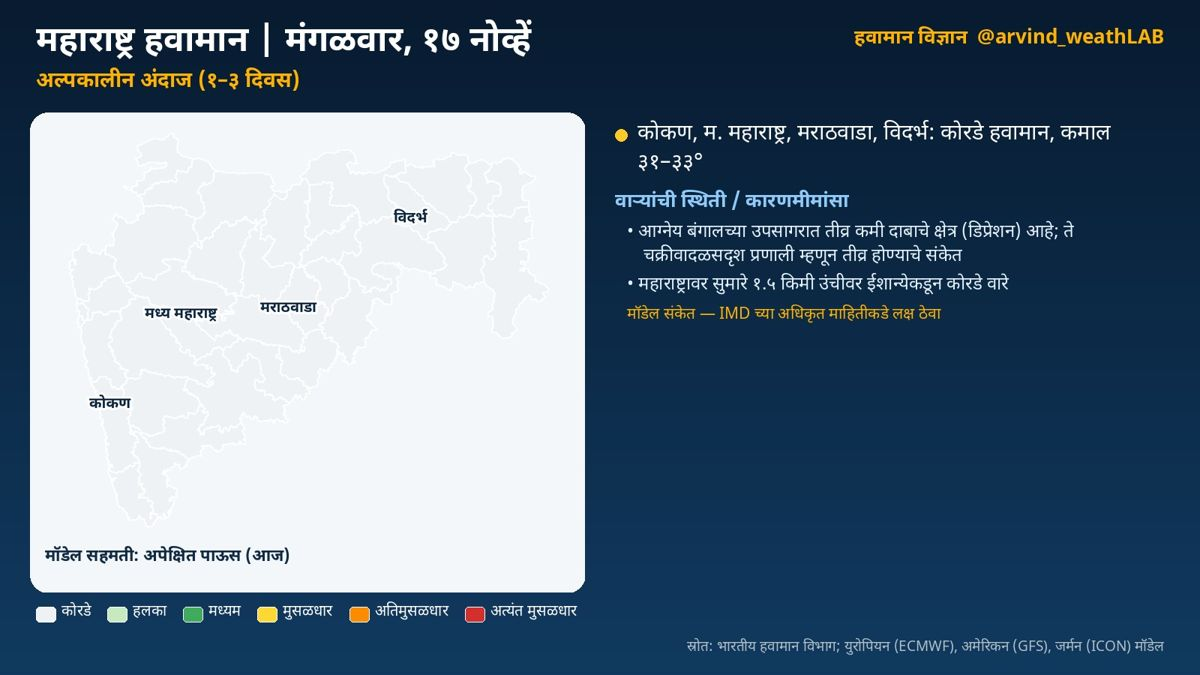
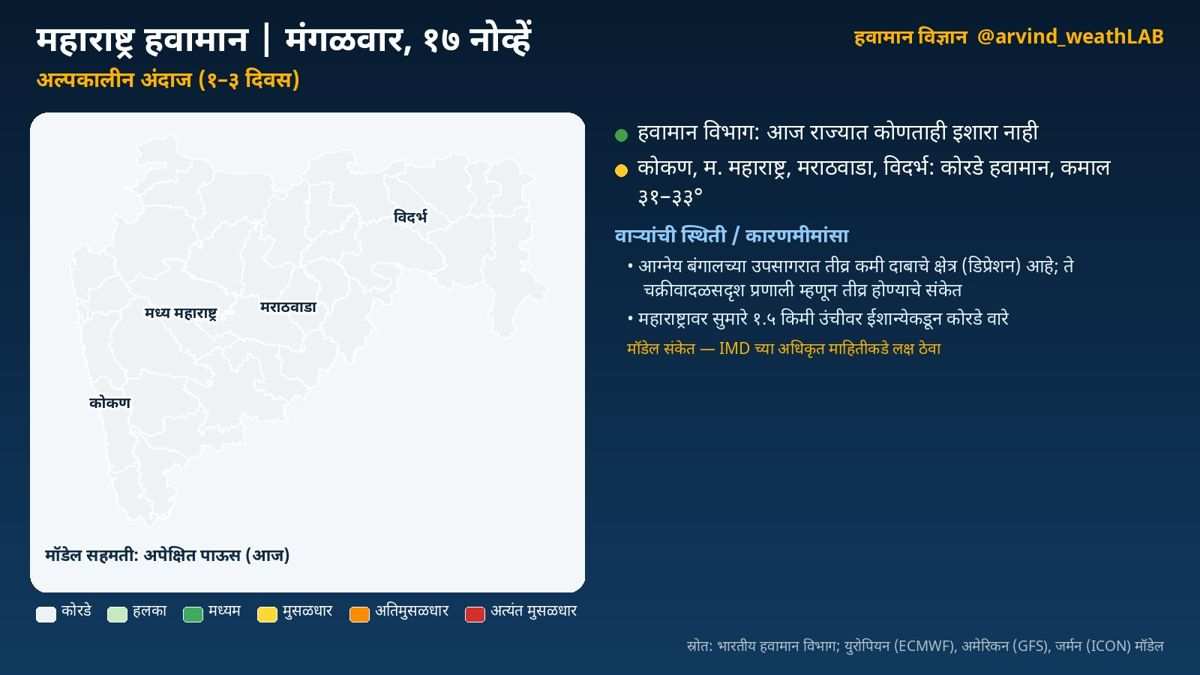
Alert 2026-11-17 (hawaman-vidnyan)

Changed region(s): [[0.4933, 0.1556, 0.925, 0.5289]]

diff --git a/docs/alerts/2026-11-17-hawaman/index.html b/docs/alerts/2026-11-17-hawaman/index.html
@@ -12,7 +12,7 @@
     })();
   </script>
   <title data-mr="पुढील आठवडा (२० ते २६ नोव्हें) | महाराष्ट्र | हवामान इशारा">पुढील आठवडा (२० ते २६ नोव्हें) | महाराष्ट्र | Weather alert</title>
-  <meta name="description" content="Information analysis: पुढील आठवडा (२० ते २६ नोव्हें) | महाराष्ट्र (17 November 2026)">
+  <meta name="description" content="Green alert: पुढील आठवडा (२० ते २६ नोव्हें) | महाराष्ट्र (17 November 2026)">
   <link rel="preconnect" href="https://fonts.googleapis.com">
   <link rel="preconnect" href="https://fonts.gstatic.com" crossorigin>
   <link href="https://fonts.googleapis.com/css2?family=Mukta:wght@400;500;600;700&family=Noto+Serif+Devanagari:wght@600;700&display=swap" rel="stylesheet">
@@ -45,8 +45,8 @@
   <main class="wrap main">
 <article class="article">
   <p class="muted"><a href="../../alerts/index.html"><span class="l-en">← All alerts</span><span class="l-mr" lang="mr">← सर्व इशारे</span></a></p>
-  <div class="alert-banner level-info">
-    <span class="badge badge-info"><span class="l-en">Information · analysis</span><span class="l-mr" lang="mr">माहितीपर विश्लेषण</span></span>
+  <div class="alert-banner level-green">
+    <span class="badge badge-green"><span class="l-en">Green alert · No warning</span><span class="l-mr" lang="mr">हिरवा इशारा · कोणताही इशारा नाही</span></span>
     <h1>पुढील आठवडा (२० ते २६ नोव्हें) | महाराष्ट्र</h1>
     <dl class="alert-facts">
       <div><dt><span class="l-en">Date</span><span class="l-mr" lang="mr">दिनांक</span></dt><dd><time datetime="2026-11-17"><span class="l-en">Tuesday, 17 November 2026</span><span class="l-mr" lang="mr">मंगळवार, १७ नोव्हेंबर २०२६</span></time></dd></div>
@@ -123,7 +123,7 @@
 ⚠ हे मॉडेल-आधारित विश्लेषण आहे. अधिकृत इशाऱ्यांसाठी भारतीय हवामान विभाग (IMD) व स्थानिक प्रशासनाच्या सूचना पाहा.</p>
 <h2>सविस्तर हवामान विश्लेषण</h2>
 <h3>अल्पकालीन विश्लेषण (१ ते ३ दिवस)</h3>
-<p>नमस्कार! आज मंगळवार, १७ नोव्हेंबर. पाहूया महाराष्ट्राचे हवामान विश्लेषण. कोकण: कोरडे हवामान. कमाल तापमान सुमारे ३३ आणि किमान १८ अंश सेल्सिअस. मध्य महाराष्ट्र: कोरडे हवामान. कमाल तापमान सुमारे ३३ आणि किमान १६ अंश सेल्सिअस. मराठवाडा: कोरडे हवामान. कमाल तापमान सुमारे ३१ आणि किमान १७ अंश सेल्सिअस. विदर्भ: कोरडे हवामान. कमाल तापमान सुमारे ३२ आणि किमान १७ अंश सेल्सिअस. आता पाहूया हवामानामागचे कारण, म्हणजेच वाऱ्यांची स्थिती. आग्नेय बंगालच्या उपसागरात तीव्र कमी दाबाचे क्षेत्र (डिप्रेशन) आहे; ते चक्रीवादळसदृश प्रणाली म्हणून तीव्र होण्याचे संकेत; प्रणाली वायव्येकडे (पश्चिम-मध्य बंगालचा उपसागर) सरकण्याची शक्यता (मॉडेल संकेत; IMD च्या अधिकृत माहितीकडे लक्ष ठेवा). पूर्व-मध्य अरबी समुद्रात कमी दाबाचे क्षेत्र आहे. महाराष्ट्रावर सुमारे १.५ किमी उंचीवर ईशान्येकडून कोरडे वारे; हवेच्या मधल्या थरात आर्द्रता फक्त १०% असल्याने ढग फारसे तयार होत नाहीत.</p>
+<p>नमस्कार! आज मंगळवार, १७ नोव्हेंबर. पाहूया महाराष्ट्राचे हवामान विश्लेषण. हवामान विभागाने आज राज्यात कोणताही इशारा दिलेला नाही. कोकण: कोरडे हवामान. कमाल तापमान सुमारे ३३ आणि किमान १८ अंश सेल्सिअस. मध्य महाराष्ट्र: कोरडे हवामान. कमाल तापमान सुमारे ३३ आणि किमान १६ अंश सेल्सिअस. मराठवाडा: कोरडे हवामान. कमाल तापमान सुमारे ३१ आणि किमान १७ अंश सेल्सिअस. विदर्भ: कोरडे हवामान. कमाल तापमान सुमारे ३२ आणि किमान १७ अंश सेल्सिअस. काल राज्यातील सर्वाधिक तापमान रत्नागिरी येथे ३४.८ अंश (सरासरीपेक्षा १.०° जास्त) नोंदले गेले. आता पाहूया हवामानामागचे कारण, म्हणजेच वाऱ्यांची स्थिती. आग्नेय बंगालच्या उपसागरात तीव्र कमी दाबाचे क्षेत्र (डिप्रेशन) आहे; ते चक्रीवादळसदृश प्रणाली म्हणून तीव्र होण्याचे संकेत; प्रणाली वायव्येकडे (पश्चिम-मध्य बंगालचा उपसागर) सरकण्याची शक्यता (मॉडेल संकेत; IMD च्या अधिकृत माहितीकडे लक्ष ठेवा). पूर्व-मध्य अरबी समुद्रात कमी दाबाचे क्षेत्र आहे. महाराष्ट्रावर सुमारे १.५ किमी उंचीवर ईशान्येकडून कोरडे वारे; हवेच्या मधल्या थरात आर्द्रता फक्त १०% असल्याने ढग फारसे तयार होत नाहीत.</p>
 <h3>मध्यम कालावधी विश्लेषण (४ ते १० दिवस)</h3>
 <p>आता पुढील आठवड्याचा, म्हणजे २० ते २६ नोव्हें या काळाचे विश्लेषण. युरोपियन हवामान केंद्राच्या ५१ वेगवेगळ्या संभाव्य मॉडेल-परिणामांवर आधारित. कोकण: पावसाची शक्यता कमी. मध्य महाराष्ट्र: पावसाची शक्यता मध्यम (२२ नोव्हें जास्त). मराठवाडा: पावसाची शक्यता अधिक (२२ नोव्हें जास्त). विदर्भ: पावसाची शक्यता अधिक (२२ नोव्हें जास्त).  किमान तापमान १° ने वाढेल. या काळातील वाऱ्यांची स्थिती: २० नोव्हें रोजी पश्चिम-मध्य बंगालच्या उपसागरात असलेली तीव्र कमी दाबाचे क्षेत्र (डिप्रेशन) पश्चिमेकडे (महाराष्ट्र) सरकण्याची शक्यता (मॉडेल संकेत; IMD च्या अधिकृत माहितीकडे लक्ष ठेवा). या प्रणालीमुळे राज्यात ढगाळ हवामान व पावसाची शक्यता वाढू शकते. ईशान्य अरबी समुद्रात २० नोव्हें दरम्यान कमी दाबाचे क्षेत्र तयार होण्याचे संकेत; प्रणाली पश्चिमेकडे (वायव्य अरबी समुद्र) सरकण्याची शक्यता. मध्य भारतावर २१ नोव्हें दरम्यान कमी दाबाचे क्षेत्र तयार होण्याचे संकेत; प्रणाली आग्नेयेकडे (ईशान्य बंगालचा उपसागर) सरकण्याची शक्यता. महाराष्ट्रावर सुमारे १.५ किमी उंचीवर पूर्वेकडून कोरडे वारे; हवेच्या मधल्या थरात आर्द्रता फक्त २१% असल्याने ढग फारसे तयार होत नाहीत.</p>
 <h3>विस्तारित विश्लेषण (२ ते ४ आठवडे)</h3>

diff --git a/docs/index.html b/docs/index.html
@@ -73,9 +73,9 @@
   </div>
   <p class="imd-note"><span class="l-en">Disclaimer: For weather alerts and warnings, I follow the India Meteorological Department (IMD). The alert colour and the warnings on this page come from the official IMD district warnings. The other text is my own analysis and gives information only. For official forecasts and warnings, follow</span><span class="l-mr" lang="mr">अस्वीकरण: हवामान इशाऱ्यांसाठी मी भारतीय हवामान विभागाचे (IMD) अनुसरण करतो. येथे दाखवलेला इशाऱ्याचा रंग व इशारे हे IMD च्या अधिकृत जिल्हानिहाय इशाऱ्यांवरून घेतले आहेत; उर्वरित माहिती हे केवळ माहितीसाठी केलेले माझे वैयक्तिक विश्लेषण आहे. अधिकृत अंदाज व इशाऱ्यांसाठी कृपया</span>
     <a href="https://mausam.imd.gov.in" rel="noopener" target="_blank"><span class="l-en">IMD (mausam.imd.gov.in)</span><span class="l-mr" lang="mr">भारतीय हवामान विभागाचे (mausam.imd.gov.in)</span></a><span class="l-en">.</span><span class="l-mr" lang="mr"> अनुसरण करा.</span></p>
-    <article class="alert-card level-info">
+    <article class="alert-card level-green">
   <div class="alert-card-top">
-    <span class="badge badge-info"><span class="l-en">Information · analysis</span><span class="l-mr" lang="mr">माहितीपर विश्लेषण</span></span>
+    <span class="badge badge-green"><span class="l-en">Green alert · No warning</span><span class="l-mr" lang="mr">हिरवा इशारा · कोणताही इशारा नाही</span></span>
     <time datetime="2026-11-17" class="muted"><span class="l-en">Tuesday, 17 November 2026</span><span class="l-mr" lang="mr">मंगळवार, १७ नोव्हेंबर २०२६</span></time>
   </div>
   <h3><a href="./alerts/2026-11-17-hawaman/index.html">पुढील आठवडा (२० ते २६ नोव्हें) | महाराष्ट्र</a></h3>

diff --git a/docs/alerts/index.html b/docs/alerts/index.html
@@ -72,9 +72,9 @@
 </section>
 
 <div class="stack">
-<article class="alert-card level-info">
+<article class="alert-card level-green">
   <div class="alert-card-top">
-    <span class="badge badge-info"><span class="l-en">Information · analysis</span><span class="l-mr" lang="mr">माहितीपर विश्लेषण</span></span>
+    <span class="badge badge-green"><span class="l-en">Green alert · No warning</span><span class="l-mr" lang="mr">हिरवा इशारा · कोणताही इशारा नाही</span></span>
     <time datetime="2026-11-17" class="muted"><span class="l-en">Tuesday, 17 November 2026</span><span class="l-mr" lang="mr">मंगळवार, १७ नोव्हेंबर २०२६</span></time>
   </div>
   <h3><a href="../alerts/2026-11-17-hawaman/index.html">पुढील आठवडा (२० ते २६ नोव्हें) | महाराष्ट्र</a></h3>

diff --git a/content/alerts/2026-11-17-hawaman.md b/content/alerts/2026-11-17-hawaman.md
@@ -1,7 +1,7 @@
 ---
 title: "पुढील आठवडा (२० ते २६ नोव्हें) | महाराष्ट्र"
 date: 2026-11-17
-level: info
+level: green
 lang: mr
 valid: {"en": "17 November 2026, Medium-range analysis (4 to 10 days)", "mr": "१७ नोव्हेंबर २०२६, मध्यम कालावधी विश्लेषण (४ ते १० दिवस)"}
 regions: [{"en": "Konkan", "mr": "कोकण"}, {"en": "Madhya Maharashtra", "mr": "मध्य महाराष्ट्र"}, {"en": "Marathwada", "mr": "मराठवाडा"}, {"en": "Vidarbha", "mr": "विदर्भ"}]
@@ -42,7 +42,7 @@ source: hawaman-vidnyan
 
 
 ### अल्पकालीन विश्लेषण (१ ते ३ दिवस)
-नमस्कार! आज मंगळवार, १७ नोव्हेंबर. पाहूया महाराष्ट्राचे हवामान विश्लेषण. कोकण: कोरडे हवामान. कमाल तापमान सुमारे ३३ आणि किमान १८ अंश सेल्सिअस. मध्य महाराष्ट्र: कोरडे हवामान. कमाल तापमान सुमारे ३३ आणि किमान १६ अंश सेल्सिअस. मराठवाडा: कोरडे हवामान. कमाल तापमान सुमारे ३१ आणि किमान १७ अंश सेल्सिअस. विदर्भ: कोरडे हवामान. कमाल तापमान सुमारे ३२ आणि किमान १७ अंश सेल्सिअस. आता पाहूया हवामानामागचे कारण, म्हणजेच वाऱ्यांची स्थिती. आग्नेय बंगालच्या उपसागरात तीव्र कमी दाबाचे क्षेत्र (डिप्रेशन) आहे; ते चक्रीवादळसदृश प्रणाली म्हणून तीव्र होण्याचे संकेत; प्रणाली वायव्येकडे (पश्चिम-मध्य बंगालचा उपसागर) सरकण्याची शक्यता (मॉडेल संकेत; IMD च्या अधिकृत माहितीकडे लक्ष ठेवा). पूर्व-मध्य अरबी समुद्रात कमी दाबाचे क्षेत्र आहे. महाराष्ट्रावर सुमारे १.५ किमी उंचीवर ईशान्येकडून कोरडे वारे; हवेच्या मधल्या थरात आर्द्रता फक्त १०% असल्याने ढग फारसे तयार होत नाहीत.
+नमस्कार! आज मंगळवार, १७ नोव्हेंबर. पाहूया महाराष्ट्राचे हवामान विश्लेषण. हवामान विभागाने आज राज्यात कोणताही इशारा दिलेला नाही. कोकण: कोरडे हवामान. कमाल तापमान सुमारे ३३ आणि किमान १८ अंश सेल्सिअस. मध्य महाराष्ट्र: कोरडे हवामान. कमाल तापमान सुमारे ३३ आणि किमान १६ अंश सेल्सिअस. मराठवाडा: कोरडे हवामान. कमाल तापमान सुमारे ३१ आणि किमान १७ अंश सेल्सिअस. विदर्भ: कोरडे हवामान. कमाल तापमान सुमारे ३२ आणि किमान १७ अंश सेल्सिअस. काल राज्यातील सर्वाधिक तापमान रत्नागिरी येथे ३४.८ अंश (सरासरीपेक्षा १.०° जास्त) नोंदले गेले. आता पाहूया हवामानामागचे कारण, म्हणजेच वाऱ्यांची स्थिती. आग्नेय बंगालच्या उपसागरात तीव्र कमी दाबाचे क्षेत्र (डिप्रेशन) आहे; ते चक्रीवादळसदृश प्रणाली म्हणून तीव्र होण्याचे संकेत; प्रणाली वायव्येकडे (पश्चिम-मध्य बंगालचा उपसागर) सरकण्याची शक्यता (मॉडेल संकेत; IMD च्या अधिकृत माहितीकडे लक्ष ठेवा). पूर्व-मध्य अरबी समुद्रात कमी दाबाचे क्षेत्र आहे. महाराष्ट्रावर सुमारे १.५ किमी उंचीवर ईशान्येकडून कोरडे वारे; हवेच्या मधल्या थरात आर्द्रता फक्त १०% असल्याने ढग फारसे तयार होत नाहीत.
 
 ### मध्यम कालावधी विश्लेषण (४ ते १० दिवस)
 आता पुढील आठवड्याचा, म्हणजे २० ते २६ नोव्हें या काळाचे विश्लेषण. युरोपियन हवामान केंद्राच्या ५१ वेगवेगळ्या संभाव्य मॉडेल-परिणामांवर आधारित. कोकण: पावसाची शक्यता कमी. मध्य महाराष्ट्र: पावसाची शक्यता मध्यम (२२ नोव्हें जास्त). मराठवाडा: पावसाची शक्यता अधिक (२२ नोव्हें जास्त). विदर्भ: पावसाची शक्यता अधिक (२२ नोव्हें जास्त).  किमान तापमान १° ने वाढेल. या काळातील वाऱ्यांची स्थिती: २० नोव्हें रोजी पश्चिम-मध्य बंगालच्या उपसागरात असलेली तीव्र कमी दाबाचे क्षेत्र (डिप्रेशन) पश्चिमेकडे (महाराष्ट्र) सरकण्याची शक्यता (मॉडेल संकेत; IMD च्या अधिकृत माहितीकडे लक्ष ठेवा). या प्रणालीमुळे राज्यात ढगाळ हवामान व पावसाची शक्यता वाढू शकते. ईशान्य अरबी समुद्रात २० नोव्हें दरम्यान कमी दाबाचे क्षेत्र तयार होण्याचे संकेत; प्रणाली पश्चिमेकडे (वायव्य अरबी समुद्र) सरकण्याची शक्यता. मध्य भारतावर २१ नोव्हें दरम्यान कमी दाबाचे क्षेत्र तयार होण्याचे संकेत; प्रणाली आग्नेयेकडे (ईशान्य बंगालचा उपसागर) सरकण्याची शक्यता. महाराष्ट्रावर सुमारे १.५ किमी उंचीवर पूर्वेकडून कोरडे वारे; हवेच्या मधल्या थरात आर्द्रता फक्त २१% असल्याने ढग फारसे तयार होत नाहीत.
